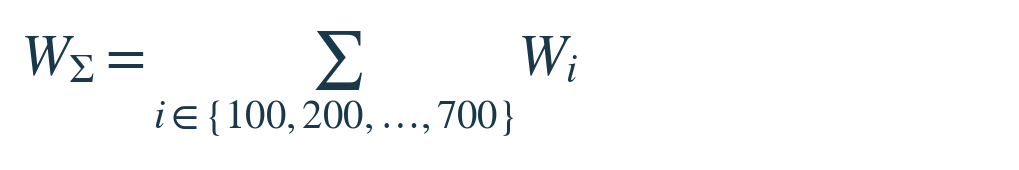
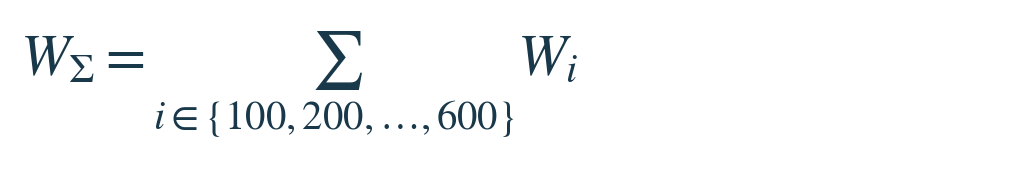
Exclude SWBS700 estimation and train lightship total net of actual SWBS700

Changed region(s): [[0.1521, 0.5882, 0.5172, 0.7647], [0.213, 0.5882, 0.3651, 0.6471], [0.4868, 0.6765, 0.5172, 0.7059]]

diff --git a/ship_type_year/model.py b/ship_type_year/model.py
@@ -5,15 +5,19 @@ import numpy as np
 import pandas as pd
 
 BASE = ['함분류', '취역연도', '길이', '폭', '깊이', '소요마력', '소요전력', '순항속력']
-WEIGHTS = [f'SWBS{i}' for i in range(100, 800, 100)]
-HEADERS = dict(zip(BASE + WEIGHTS + ['총중량'], ['함종', '취역연도(year)', '길이(m)', '폭(m)', '깊이(m)', '소요마력(hp)', '소요전력(kW)', '순항속력(kn)'] + [f'{c}(tonne)' for c in WEIGHTS] + ['총중량(tonne)']))
+WEIGHTS = [f'SWBS{i}' for i in range(100, 700, 100)]
+INPUT_WEIGHTS = WEIGHTS + ['SWBS700']
+TOTAL_TARGET = '경하중량_700제외'
+TOTAL_MODEL = '경하중량_700제외_독립회귀'
+TOTAL_SUM_COLUMN = '총중량_SWBS100_600합계_700제외_tonne'
+HEADERS = dict(zip(BASE + INPUT_WEIGHTS + ['총중량'], ['함종', '취역연도(year)', '길이(m)', '폭(m)', '깊이(m)', '소요마력(hp)', '소요전력(kW)', '순항속력(kn)'] + [f'{c}(tonne)' for c in WEIGHTS] + ['총중량(tonne)']))
 HEADERS['순번'] = '순번'
 HEADERS['함유형'] = '함유형'
-INPUT_COLUMNS = ['순번', '함분류', '함유형'] + BASE[1:] + WEIGHTS + ['총중량']
+INPUT_COLUMNS = ['순번', '함분류', '함유형'] + BASE[1:] + INPUT_WEIGHTS + ['총중량']
 # The supplied equations determine these terms; cruising speed is deliberately unused.
 TERMS = {100: ['LBD'], 200: ['P'], 300: ['PE', 'L'],
-         400: [], 500: ['LBD', 'PE'], 600: ['LB'], 700: []}
-YEAR_TARGETS = {'SWBS200','SWBS300','SWBS400','SWBS500','SWBS700','총중량'}
+         400: [], 500: ['LBD', 'PE'], 600: ['LB']}
+YEAR_TARGETS = {'SWBS200','SWBS300','SWBS400','SWBS500',TOTAL_TARGET}
 ALIASES = {'총 중량': '총중량', '충중량': '총중량', '취취역연도': '취역연도',
            '함정분류': '함분류', '함종': '함분류', '함정번호': '순번', '번호': '순번'}
 
@@ -36,7 +40,8 @@ def normalize_types(df):
     return out
 
 def validate_model_types(bundle):
-    if bundle.get('mode')!='ship_type_year':raise ValueError('함종별 연도 보정 전용 모델을 사용하세요. 원본 실적함으로 다시 학습하세요.')
+    if bundle.get('mode')!='ship_type_year_exclude_700':raise ValueError('함종별 연도 보정 전용 모델을 사용하세요. 원본 실적함으로 다시 학습하세요.')
+    if 'SWBS700' in bundle['models']:raise ValueError('700계열 포함 이전 모델은 사용할 수 없습니다. 다시 학습하세요.')
     for model in bundle['models'].values():
         if any(c not in SHIP_TYPES for c in model['classes']):
             raise ValueError('이전 모델의 함종 체계가 다릅니다. 새 프로그램에서 원본 엑셀로 다시 학습하세요.')
@@ -49,7 +54,7 @@ def read_excel(path, training=True):
         raise ValueError('중복된 열 이름이 있습니다.')
     serial_auto = '순번' not in df
     if serial_auto: df.insert(0, '순번', [str(i+1) for i in range(len(df))])
-    required = ['순번'] + BASE + (WEIGHTS + ['총중량'] if training else [])
+    required = ['순번'] + BASE + (INPUT_WEIGHTS + ['총중량'] if training else [])
     if '함유형' in df: required.append('함유형')
     missing = [c for c in required if c not in df]
     if missing:
@@ -88,11 +93,17 @@ def read_excel(path, training=True):
             if c == '취역연도':
                 bounds = (values < 1800) | (values > 2200) | (values % 1 != 0)
                 detail = ': 1800~2200의 정수 필요'
+            elif c == 'SWBS700':
+                bounds = values < 0
+                detail = ': 0 이상인 실적 중량 필요(공제용)'
             else:
                 bounds = values <= 0
                 detail = ': 0보다 큰 값 필요'
             for idx in df.index[~blank & ~invalid & bounds]: reasons[idx].append(HEADERS[c] + detail)
             df[c] = values
+    if training:
+        net = df['총중량'] - df['SWBS700']
+        for idx in df.index[np.isfinite(net) & (net<=0)]:reasons[idx].append('총중량−SWBS700은 0보다 커야 합니다.')
     excluded = [{'순번': str(df.at[idx, '순번']), '엑셀 행': int(idx) + 2,
                  '함종': '' if pd.isna(df.at[idx, '함분류']) else str(df.at[idx, '함분류']),
                  '제외 사유': '; '.join(items)} for idx, items in reasons.items() if items]
@@ -171,21 +182,25 @@ def predict_one(df, model):
 
 def train(df):
     df = normalize_types(df)
+    if '총중량' in df:
+        if 'SWBS700' not in df:raise ValueError('총 경하중량에서 공제할 실적 SWBS700 중량이 필요합니다.')
+        df[TOTAL_TARGET] = df['총중량'] - df['SWBS700']
+        if (df['SWBS700']<0).any() or (df[TOTAL_TARGET]<=0).any():raise ValueError('SWBS700은 0 이상이고, 총중량−SWBS700은 양수여야 합니다.')
     models = {f'SWBS{i}': fit_one(df, f'SWBS{i}', terms) for i, terms in TERMS.items()}
     excluded = df.attrs.get('excluded_rows', [])
     warnings = ([f'입력 {df.attrs.get("input_count", len(df))}척 중 빈 값 또는 오류가 있는 {len(excluded)}척 제외, {len(df)}척 학습. 제외 행: ' + ', '.join(str(r['엑셀 행']) for r in excluded)] if excluded else [])
     if df.attrs.get('serial_auto'):
         warnings.append('순번 없는 이전 양식: 원본 데이터 순서에 따라 1부터 식별번호를 자동 부여했습니다.')
     if '총중량' in df:
-        gap = np.abs(df['총중량'] - df[WEIGHTS].sum(axis=1)) / df['총중량']
+        gap = np.abs(df[TOTAL_TARGET] - df[WEIGHTS].sum(axis=1)) / df[TOTAL_TARGET]
         if (gap > .01).any():
-            warnings.append(f'입력 총중량과 SWBS 합계가 1% 이상 다른 자료 {(gap > .01).sum()}척. 총중량 정의를 확인하세요.')
+            warnings.append(f'입력 총중량−SWBS700과 SWBS100~600 합계가 1% 이상 다른 자료 {(gap > .01).sum()}척. 총중량 정의를 확인하세요.')
         # Independent baseline, explicitly distinct from the seven supplied formulas.
         try:
-            models['총중량_독립회귀'] = fit_one(df, '총중량', ['LBD', 'P'])
+            models[TOTAL_MODEL] = fit_one(df, TOTAL_TARGET, ['LBD', 'P'])
         except ValueError as e:
             warnings.append('선택 총중량 독립회귀 미실행: ' + str(e))
-    return {'version': 3, 'mode':'ship_type_year', 'models': models, 'warnings': warnings, 'excluded_rows': excluded}
+    return {'version': 3, 'mode':'ship_type_year_exclude_700', 'models': models, 'warnings': warnings, 'excluded_rows': excluded}
 
 def predict(df, bundle):
     validate_model_types(bundle)
@@ -193,7 +208,7 @@ def predict(df, bundle):
     out = df.copy()
     for name, model in bundle['models'].items():
         out[name + '_예측_tonne'] = predict_one(df, model)
-    out['총중량_SWBS합계_tonne'] = sum(out[c + '_예측_tonne'] for c in WEIGHTS)
+    out[TOTAL_SUM_COLUMN] = sum(out[c + '_예측_tonne'] for c in WEIGHTS)
     warnings = []
     model = bundle['models']['SWBS100']
     for _, row in df.iterrows():
@@ -201,6 +216,8 @@ def predict(df, bundle):
                    if c != '순항속력' and not lo <= row[c] <= hi]
         warnings.append('학습범위 밖: ' + ', '.join(outside) if outside else '')
     out['주의'] = warnings
+    out['중량 범위'] = 'SWBS700 제외 중량'
+    if '총중량' in df and 'SWBS700' in df:out['실적_경하중량_700제외_tonne']=df['총중량']-df['SWBS700']
     return out
 
 def coefficients(bundle):
@@ -228,7 +245,7 @@ def export(path, df, bundle):
         if audit: pd.DataFrame(audit).drop_duplicates().to_excel(writer, sheet_name='제외 행', index=False)
         metrics = [{k: m[k] for k in ['target','n','parameters','rmse_tonne','mape_percent','r2','condition_number']} for m in bundle['models'].values()]
         pd.DataFrame(metrics).to_excel(writer, sheet_name='학습적합도', index=False)
-        pd.DataFrame({'주의': bundle['warnings'] + ['적합도는 학습자료 기준이며 외부 검증 성능이 아닙니다.', '총중량_SWBS합계는 100~700 합계입니다. 독립회귀 총중량과 구분하세요.', '순항속력은 입력에 보존하지만 제공된 식에 없어 회귀에 사용하지 않습니다.']}).to_excel(writer, sheet_name='안내', index=False)
+        pd.DataFrame({'주의': bundle['warnings'] + ['적합도는 학습자료 기준이며 외부 검증 성능이 아닙니다.', '모든 예측 중량은 SWBS700 제외입니다. 합계는 100~600만 합산하며 직접 회귀는 실적 총 경하중량−실적 SWBS700으로 학습합니다.', '순항속력은 입력에 보존하지만 제공된 식에 없어 회귀에 사용하지 않습니다.']}).to_excel(writer, sheet_name='안내', index=False)
 
 def template(path):
     with pd.ExcelWriter(path, engine='openpyxl') as writer:
@@ -248,7 +265,7 @@ def template(path):
     ws.auto_filter.ref = ws.dimensions
     units = ['식별번호', '함종', '함유형', 'year', 'm', 'm', 'm', 'hp', 'kW', 'kn'] + ['tonne'] * 8
     for cell, unit in zip(ws[1], units):
-        cell.comment = Comment('단위: ' + unit + (' / 경하중량' if cell.value == HEADERS['총중량'] else ''), 'Naval Ship Design')
+        cell.comment = Comment('단위: ' + unit + (' / SWBS700 포함 원래 경하중량. 프로그램이 SWBS700을 한 번 공제합니다.' if cell.value == HEADERS['총중량'] else ' / 공제용 실적 중량(0 허용). 예측하지 않습니다.' if cell.value==HEADERS['SWBS700'] else ''), 'Naval Ship Design')
     validation = DataValidation(type='list', formula1='"' + ','.join(SHIP_TYPES + ['초계함','초계정']) + '"')
     validation.errorTitle = '함종 확인'; validation.error = '목록에서 함종을 선택하세요.'
     validation.showErrorMessage = True; ws.add_data_validation(validation); validation.add('B2:B10000')
@@ -258,11 +275,11 @@ def template(path):
                  '첫 번째 시트의 순번에 함정 고유 번호를 입력하세요. 중복·빈 번호는 제외됩니다. 001처럼 앞의 0을 유지할 수 있습니다.',
                  '함유형은 별도 기록 항목이며 회귀계수에는 사용하지 않습니다. 입력한 경우 빈 값·?가 있는 행은 제외합니다.',
                  '기존 자료와 추가 자료를 합친 전체 파일을 업로드하면 계수를 다시 추정합니다.',
-                 'SWBS100~700: 각 계열 총중량(tonne), 총중량: 실제 경하중량(tonne).',
+                 'SWBS100~600은 추정용 실적 중량, SWBS700은 공제용 실적 중량(0 허용), 총중량은 SWBS700 포함 원래 경하중량입니다.',
                  '빈 값, ?, 수치 오류, 0·음수, 잘못된 함종·연도가 있는 함정 행은 모든 회귀분석에서 제외합니다. 총중량도 필수입니다.',
                  '길이/폭/깊이 m, 소요마력 hp, 소요전력 kW, 순항속력 kn.',
                  '속력은 기록용이며 현재 회귀식에는 사용하지 않습니다.',
-                 '0 또는 결측 SWBS 중량은 학습할 수 없습니다.',
+                 'SWBS100~600은 양수, SWBS700은 0 이상이어야 합니다. 총중량−SWBS700을 별도 경하중량 모형에 학습합니다. 이미 700을 뺀 값을 총중량에 넣지 마세요.',
                  '초계함·초계정은 호위함과 통합 학습합니다.',
                  '신규 함정은 GUI의 설계 제원 입력란에서 직접 입력하세요.']:
         guide.append([text])
@@ -313,7 +330,7 @@ def save_model_excel(path, bundle):
                               'R2, RMSE and diagnostics describe the original training fit; editing coefficients does not recompute them.',
                               '기준 함종은 유효 학습 척수가 가장 많은 함종입니다. 동률이면 구축함·호위함·고속함·상륙함·기뢰전함·지원함 순입니다.',
                               '회귀계수 보기 시트는 열람용입니다. 모델을 변경하려면 재학습 후 저장을 권장합니다.'] + bundle.get('warnings', [])}).to_excel(writer, sheet_name='Notes', index=False)
-        pd.DataFrame([{'Format': 'NSWE Ship Type Year Model', 'Version': 1}]).to_excel(writer, sheet_name='Format', index=False)
+        pd.DataFrame([{'Format': 'NSWE Ship Type Year Excl700 Model', 'Version': 1}]).to_excel(writer, sheet_name='Format', index=False)
     from openpyxl import load_workbook
     from openpyxl.styles import Font, PatternFill
     wb = load_workbook(path)
@@ -330,7 +347,7 @@ def load_model_excel(path):
     try:
         with pd.ExcelFile(path, engine='openpyxl') as book:
             meta = pd.read_excel(book, sheet_name='Format')
-            if len(meta)!=1 or meta.iloc[0]['Format']!='NSWE Ship Type Year Model' or meta.iloc[0]['Version']!=1:
+            if len(meta)!=1 or meta.iloc[0]['Format']!='NSWE Ship Type Year Excl700 Model' or meta.iloc[0]['Version']!=1:
                 raise ValueError('지원하지 않는 모델 형식입니다.')
             params = pd.read_excel(book, sheet_name='Model Parameters')
             types = pd.read_excel(book, sheet_name='Ship Types')
@@ -341,7 +358,7 @@ def load_model_excel(path):
             if '함유형' in diagnostics: diagnostics['함유형'] = diagnostics['함유형'].fillna('')
             excluded = pd.read_excel(book, sheet_name='Excluded Rows', dtype={'순번':str}).fillna('').to_dict('records')
             notes = pd.read_excel(book, sheet_name='Notes')['Note'].dropna().astype(str).tolist()[6:]
-        expected = set(WEIGHTS + ['총중량_독립회귀'])
+        expected = set(WEIGHTS + [TOTAL_MODEL])
         if params.empty or params['Target'].duplicated().any() or not set(WEIGHTS)<=set(params['Target']) or not set(params['Target'])<=expected:
             raise ValueError('계열별 모델 목록이 잘못되었습니다.')
         def finite(value, name, positive=False):
@@ -378,7 +395,7 @@ def load_model_excel(path):
                 bounds[r['Variable']]=[lo,hi]
             if set(bounds)!=set(BASE[1:]):raise ValueError('학습 범위가 누락되었습니다.')
             counts={r['ShipType']: integer(r['Count'],'Count') for _,r in group.iterrows() if pd.notna(r['Count'])}
-            models[name]={'target': '총중량' if name=='총중량_독립회귀' else name,
+            models[name]={'target': TOTAL_TARGET if name==TOTAL_MODEL else name,
                           'terms':terms, 'classes':classes, 'coef':coef, 'smearing':finite(row['C'],'C',True),
                           'mean_years':mean_years,'gamma':gamma,'year_by_type':year_by_type, 'ranges':bounds,
                           'n':integer(row['N'],'N'), 'parameters':integer(row['Parameters'],'Parameters'),
@@ -387,7 +404,7 @@ def load_model_excel(path):
                           'condition_number':finite(row['ConditionNumber'],'ConditionNumber',True),
                           'class_counts':counts,
                           'diagnostics':diagnostics[diagnostics['Target']==name].drop(columns='Target').to_dict('records')}
-        bundle={'version':3,'mode':'ship_type_year','models':models,'warnings':notes,'excluded_rows':excluded}
+        bundle={'version':3,'mode':'ship_type_year_exclude_700','models':models,'warnings':notes,'excluded_rows':excluded}
         validate_model_types(bundle)
         return bundle
     except (KeyError, TypeError, IndexError) as e:

diff --git a/ship_type_year/app.py b/ship_type_year/app.py
@@ -6,14 +6,14 @@ from tkinter import filedialog, messagebox, ttk
 import pandas as pd
 from equation_guide import GUIDE_ROWS, TABLE_EXPLANATION
 from model import (BASE, SHIP_TYPES, read_excel, train, predict, export, template,
-                   coefficients, validate_model_types, normalize_types, save_model_excel, load_model_excel, SHIP_ALIASES, diagnostic_rows, diagnostic_metrics)
+                   coefficients, validate_model_types, normalize_types, save_model_excel, load_model_excel, SHIP_ALIASES, TOTAL_MODEL, TOTAL_SUM_COLUMN, diagnostic_rows, diagnostic_metrics)
 
 TITLE = 'Naval Ship Weight Estimator - Ship Type Year'
 NAVY, INK, TEAL, GOLD = '#102638', '#19384a', '#087f87', '#c69c55'
 BG, WHITE, MUTED = '#edf2f5', '#ffffff', '#607887'
 EN, KO = 'Times New Roman', '맑은 고딕'
 SERIES = ['Hull Structure', 'Propulsion', 'Electrical', 'Command & Surveillance',
-          'Auxiliary Systems', 'Outfit & Furnishings', 'Armament']
+          'Auxiliary Systems', 'Outfit & Furnishings']
 
 class App:
     def __init__(self, root):
@@ -105,7 +105,7 @@ class App:
     def design_panel(self):
         panel = tk.Frame(self.design_tab, bg=WHITE, padx=20, pady=15); panel.pack(fill='both', expand=True)
         self.label(panel, 'Weight Estimation', 21, bold=True, english=True).pack(anchor='w')
-        self.label(panel, '함종·길이·폭·깊이·소요마력·소요전력으로 SWBS100~700 및 경하중량을 추정합니다.', 10, MUTED).pack(anchor='w', pady=(3,12))
+        self.label(panel, '함종·길이·폭·깊이·소요마력·소요전력으로 SWBS100~600 및 700계열 제외 경하중량을 추정합니다.', 10, MUTED).pack(anchor='w', pady=(3,12))
         form = tk.Frame(panel, bg=WHITE); form.pack(fill='x')
         self.inputs = {}
         fields = [('함분류','Ship Type / 함종'), ('길이','Length L / 길이 (m)'),
@@ -128,7 +128,7 @@ class App:
         tk.Label(row,textvariable=self.estimation_assumption,font=(KO,9),fg=MUTED,bg=WHITE,wraplength=600,justify='left').pack(side='left',padx=14)
         cards=tk.Frame(panel,bg=WHITE); cards.pack(fill='x',pady=12)
         self.sum_value=tk.StringVar(value='—'); self.total_value=tk.StringVar(value='—')
-        for title,var,color in [('SWBS100–700 Sum / 계열별 합산 중량',self.sum_value,TEAL),('Lightship Regression / 전체 경하중량 직접 추정',self.total_value,INK)]:
+        for title,var,color in [('SWBS100–600 합계 / 700계열 제외',self.sum_value,TEAL),('경하중량 직접 회귀 / 700계열 제외',self.total_value,INK)]:
             card=tk.Frame(cards,bg='#edf4f6',highlightbackground='#d3e1e7',highlightthickness=1,padx=14,pady=10); card.pack(side='left',fill='both',expand=True,padx=(0,10))
             self.label(card,title,11,color,'#edf4f6',True,True).pack(anchor='w')
             tk.Label(card,textvariable=var,font=(EN,25,'bold'),fg=color,bg='#edf4f6').pack(anchor='w')
@@ -338,11 +338,11 @@ class App:
 
     def draw_chart(self):
         c=self.chart; c.delete('all'); width=max(c.winfo_width(),240)
-        c.create_text(12,16,anchor='w',text='SWBS WEIGHT DISTRIBUTION',font=(EN,11,'bold'),fill=INK)
+        c.create_text(12,16,anchor='w',text='SWBS100–600 / EXCLUDING 700',font=(EN,11,'bold'),fill=INK)
         weights=getattr(self,'last_weights',None)
         if weights is None:
             c.create_text(width/2,100,text='Awaiting design estimate',font=(EN,13,'italic'),fill=MUTED); return
-        mx=max(weights) or 1; step=max(23,min(33,(c.winfo_height()-35)/7))
+        mx=max(weights) or 1; step=max(23,min(33,(c.winfo_height()-35)/6))
         for i,w in enumerate(weights):
             y=38+i*step
             c.create_text(12,y+7,anchor='w',text=str((i+1)*100),font=(EN,10),fill=INK)
@@ -413,7 +413,7 @@ class App:
                    'R²·RMSE·MAPE 및 그래프는 학습자료 기준이며 독립 검증 성능이 아닙니다.',
                    '엑셀 모델에는 전체 정밀도의 계수·학습 범위·진단 결과가 저장됩니다.']+self.bundle.get('warnings',[])))
     def save(self):
-        self.require();p=self.choose(True,initialfile='Ship Type Year Model.xlsx')
+        self.require();p=self.choose(True,initialfile='Ship Type Year Excluding 700 Model.xlsx')
         if p:save_model_excel(p,self.bundle);self.status.set('MODEL SAVED  |  '+p)
     def load(self):
         p=self.choose()
@@ -452,14 +452,14 @@ class App:
         self.require();data=self.design_data();result=predict(data,self.bundle)
         self.data=data;self.render_result(result.iloc[0]);self.status.set('ESTIMATION COMPLETE  |  Export Results to Excel로 저장하세요.')
     def render_result(self,row):
-        self.sum_value.set(f"{row['총중량_SWBS합계_tonne']:,.2f} tonne")
-        key='총중량_독립회귀_예측_tonne'
+        self.sum_value.set(f"{row[TOTAL_SUM_COLUMN]:,.2f} tonne")
+        key=TOTAL_MODEL+'_예측_tonne'
         self.total_value.set(f"{row[key]:,.2f} tonne" if key in row else 'Not trained / 미학습')
-        self.last_weights=[float(row[f'SWBS{i}_예측_tonne']) for i in range(100,800,100)]
+        self.last_weights=[float(row[f'SWBS{i}_예측_tonne']) for i in range(100,700,100)]
         self.result_tree.delete(*self.result_tree.get_children())
         for i,(name,w) in enumerate(zip(SERIES,self.last_weights)):self.result_tree.insert('','end',values=(str((i+1)*100),name,f'{w:,.2f}'))
-        note=f"함종: {row['함분류']} / 취역 예상연도: {row['취역연도']:.2f} ({row.get('연도 적용','입력연도')})  |  "+(row['주의'] or '학습자료의 입력 범위 내')
-        if key not in row:note+='  |  실제 총중량을 포함한 실적함 자료를 학습하면 직접 회귀를 사용할 수 있습니다.'
+        note=f"함종: {row['함분류']} / 700계열 제외 / 취역 예상연도: {row['취역연도']:.2f} ({row.get('연도 적용','입력연도')})  |  "+(row['주의'] or '학습자료의 입력 범위 내')
+        if key not in row:note+='  |  원래 경하중량과 공제용 실적 SWBS700을 포함한 자료를 학습하면 직접 회귀를 사용할 수 있습니다.'
         self.prediction_note.set(note);self.draw_chart()
     def report(self):
         self.require()

diff --git a/ship_type_year/equation_guide.py b/ship_type_year/equation_guide.py
@@ -14,12 +14,10 @@ GUIDE_ROWS = [
      'L·B·D: 길이·폭·깊이(m), PE: 소요전력(kW)\nα: 규모(LBD)의 회귀지수\nβ: 전력의 회귀지수 / γt: 취역연도 영향계수\n'+COMMON),
     ('swbs600', 'SWBS600 / 의장계통', r'W_{600}=K(LB)^{\alpha}D_t C',
      'L·B: 길이·폭(m)\nα: 면적 지표(LB)의 회귀지수\n'+COMMON+'\n이 식에는 취역연도 항이 없습니다.'),
-    ('swbs700', 'SWBS700 / 무장계통', r'W_{700}=KD_t '+YEAR+r' C',
-     '함종과 취역연도의 영향을 반영하는 모형\nγt: 취역연도 영향계수\n'+COMMON),
-    ('total_sum', 'Total / 계열별 합산 중량', r'W_{\Sigma}=\sum_{i\in\{100,200,\ldots,700\}} W_i',
-     'SWBS100~700의 예측 중량을 모두 합산합니다.\n합계 자체에 별도의 K·Dt·C를 곱하지 않습니다.\n각 계열 식에서 보정된 중량을 더합니다.\nSWBS 합계와 경하중량의 포함 범위를 확인하세요.'),
-    ('total_direct', 'Lightship / 전체 경하중량 직접 회귀', r'W_{\mathrm{total}}=K(LBD)^{\alpha}P^{\beta}D_t '+YEAR+r' C',
-     '실제 경하중량을 학습한 별도의 회귀모형\nα: 규모(LBD)의 회귀지수\nβ: 소요마력(hp)의 회귀지수\nγt: 취역연도 영향계수\n'+COMMON+'\n계열별 합산 중량과 일치하도록 강제하지 않습니다.'),
+    ('total_sum', 'Total / SWBS100~600 합계 · 700계열 제외', r'W_{\Sigma}=\sum_{i\in\{100,200,\ldots,600\}} W_i',
+     'SWBS100~600의 예측 중량을 모두 합산합니다.\n합계 자체에 별도의 K·Dt·C를 곱하지 않습니다.\n각 계열 식에서 보정된 중량을 더합니다.\n700계열은 예측하지 않으며 합계에도 포함하지 않습니다.'),
+    ('total_direct', 'Lightship / 700계열 제외 경하중량 직접 회귀', r'W_{\mathrm{total}\,-\,700}=K(LBD)^{\alpha}P^{\beta}D_t '+YEAR+r' C',
+     '실적 경하중량−실적 SWBS700을 학습한 모형\nα: 규모(LBD)의 회귀지수\nβ: 소요마력(hp)의 회귀지수\nγt: 취역연도 영향계수\n'+COMMON+'\n계열별 합산 중량과 일치하도록 강제하지 않습니다.'),
     ('year_factor', 'Year Adjustment / 연도 보정', r'F(Y)=\exp\!\left[\gamma_t\frac{Y-\bar{Y}_t}{10}\right]',
      'Y: 취역연도 또는 신규 함정의 취역 예상연도\nȲt: 해당 함종의 학습 평균 취역연도\nγt: 10년당 연도 효과(exp(γt)배)\n취역 예상연도를 생략하면 선택 함종의 학습 평균연도를 적용합니다.\nSWBS100·600에는 연도 보정이 없습니다.'),
     ('smearing', 'Bias Correction / 역변환 편향 보정', r'C=\frac{1}{n}\sum_{j=1}^{n}\exp(e_j)',
@@ -27,6 +25,7 @@ GUIDE_ROWS = [
 ]
 
 TABLE_EXPLANATION = [
+    ('700계열 제외 중량', '700계열은 추정하지 않습니다. 계열 합계는 100~600만 합산하며 경하중량 직접 회귀는 원래 실적 총 경하중량에서 실적 SWBS700을 뺀 값을 학습합니다. 입력 총중량에는 이미 700을 뺀 값을 넣지 마세요. SWBS700 입력은 공제용이며 0을 허용합니다.'),
     ('함종별 연도 보정', '각 계열 및 총 경하중량 모형에서 함종별 γt를 서로 독립적으로 추정합니다. 기준연도도 유효 학습자료의 해당 함종 평균입니다. 각 함종에 서로 다른 취역연도가 2개 이상 있어야 하며, 전체 자료가 계수 수보다 많고 설계행렬이 full rank여야 합니다. 자료가 부족하면 임의의 공통 연도 효과로 대체하지 않고 학습 오류를 안내합니다.'),
     ('Dt 비교 조건', 'Dt는 각 함종을 자신의 평균 취역연도에 놓았을 때의 상대 수준입니다. 같은 달력 연도에서 함종을 비교하려면 Dt뿐 아니라 각 함종의 연도 보정값 F_t(Y)도 함께 곱해 비교해야 합니다.'),
     ('계수 표 읽는 방법', '같은 계열에서는 K·α·β·C가 공통이고 Dt·γt·함종평균연도가 함종마다 다릅니다. 따라서 공통 계수는 여러 행에 반복됩니다. K와 회귀지수 및 C는 계열·총중량 모형마다 서로 다를 수 있습니다.'),

diff --git a/ship_type_year/tests/test_model.py b/ship_type_year/tests/test_model.py
@@ -3,7 +3,7 @@ import unittest
 from pathlib import Path
 import numpy as np
 import pandas as pd
-from model import TERMS, YEAR_TARGETS, WEIGHTS, design, train, predict, read_excel, save_model_excel, load_model_excel, coefficients
+from model import TERMS, YEAR_TARGETS, WEIGHTS, design, train, predict, read_excel, save_model_excel, load_model_excel, coefficients, TOTAL_MODEL, TOTAL_TARGET, TOTAL_SUM_COLUMN
 
 def fleet():
     rng=np.random.default_rng(67);n=100
@@ -18,7 +18,8 @@ def fleet():
         coef=[1.2]+[.6]*len(terms)+[.3]+([.12,-.2] if flag else [])
         df[f'SWBS{i}']=np.exp(x@np.array(coef))
     x=design(df,['LBD','P'],['구축함','호위함'],means,True)
-    df['총중량']=np.exp(x@np.array([1.4,.7,.1,.3,.08,-.11]))
+    df['SWBS700']=np.linspace(100,500,n)
+    df['총중량']=np.exp(x@np.array([1.4,.7,.1,.3,.08,-.11]))+df['SWBS700']
     return df
 
 class ModelTests(unittest.TestCase):
@@ -26,14 +27,14 @@ class ModelTests(unittest.TestCase):
         df=fleet();b=train(df)
         for name,m in b['models'].items():
             if m['year_by_type']:
-                expected=[.08,-.11] if name=='총중량_독립회귀' else [.12,-.2]
+                expected=[.08,-.11] if name==TOTAL_MODEL else [.12,-.2]
                 np.testing.assert_allclose(list(m['gamma'].values()),expected,atol=1e-10)
             self.assertEqual(m['mean_years'],df.groupby('함분류')['취역연도'].mean().to_dict())
             self.assertNotIn('mean_year',m)
         out=predict(df,b)
         for c in WEIGHTS:np.testing.assert_allclose(out[c+'_예측_tonne'],df[c],rtol=1e-9)
-        np.testing.assert_allclose(out['총중량_독립회귀_예측_tonne'],df['총중량'],rtol=1e-9)
-        np.testing.assert_allclose(out['총중량_SWBS합계_tonne'],out[[c+'_예측_tonne' for c in WEIGHTS]].sum(axis=1))
+        np.testing.assert_allclose(out[TOTAL_MODEL+'_예측_tonne'],df['총중량']-df['SWBS700'],rtol=1e-9)
+        np.testing.assert_allclose(out[TOTAL_SUM_COLUMN],out[[c+'_예측_tonne' for c in WEIGHTS]].sum(axis=1))
     def test_class_specific_ten_year_change_and_centering(self):
         df=fleet();b=train(df)
         for cls in ['구축함','호위함']:
@@ -48,6 +49,24 @@ class ModelTests(unittest.TestCase):
         for row in diagnostics:
             cls=row['함종'];m=b['models']['SWBS200']
             self.assertAlmostEqual(row['연도보정값'],np.exp(m['gamma'][cls]*(row['취역연도']-m['mean_years'][cls])/10))
+    def test_700_not_fitted_and_total_subtracted_exactly_once(self):
+        df=fleet();bundle=train(df);out=predict(df,bundle)
+        self.assertNotIn('SWBS700',bundle['models'])
+        self.assertNotIn('SWBS700_예측_tonne',out)
+        self.assertEqual(len(bundle['models']),7)
+        actual=np.array([r['실제중량'] for r in bundle['models'][TOTAL_MODEL]['diagnostics']])
+        np.testing.assert_allclose(actual,df['총중량']-df['SWBS700'])
+        changed=df.copy();changed['SWBS700']+=200;changed['총중량']+=200
+        # Net-weight targets are unchanged when full weight and actual 700 rise equally.
+        revised=train(changed)
+        np.testing.assert_allclose(bundle['models'][TOTAL_MODEL]['coef'],revised['models'][TOTAL_MODEL]['coef'],rtol=1e-10)
+        self.assertTrue(out['중량 범위'].eq('SWBS700 제외 중량').all())
+    def test_zero_700_and_nonpositive_net_input(self):
+        with tempfile.TemporaryDirectory() as tmp:
+            p=Path(tmp)/'zero.xlsx';df=fleet();df.loc[0,'SWBS700']=0;df.loc[1,'SWBS700']=df.loc[1,'총중량']
+            df.to_excel(p,index=False);valid=read_excel(p)
+            self.assertIn(0,valid.index);self.assertNotIn(1,valid.index)
+            self.assertEqual(valid.attrs['excluded_rows'][0]['엑셀 행'],3)
     def test_missing_year_variation_is_explicit(self):
         df=fleet();df.loc[df['함분류']=='호위함','취역연도']=2000
         with self.assertRaisesRegex(ValueError,'호위함'):train(df)

diff --git a/ship_type_year/tests/test_ui.py b/ship_type_year/tests/test_ui.py
@@ -26,9 +26,12 @@ class UITests(unittest.TestCase):
                 self.assertEqual(app.data.iloc[0]['취역연도'],app.bundle['models']['SWBS100']['mean_years']['호위함'])
                 self.assertIn('호위함',app.estimation_assumption.get())
                 self.assertIn('tonne',app.sum_value.get());self.assertIn('tonne',app.total_value.get())
-                self.assertEqual(len(app.result_tree.get_children()),7)
+                self.assertEqual(len(app.result_tree.get_children()),6)
                 app.inputs['취역연도'].set('2030');app.estimate();root.update()
                 self.assertIn('2030',app.prediction_note.get())
+                self.assertIn('700계열 제외',app.prediction_note.get())
+                self.assertNotIn('SWBS700',app.bundle['models'])
+                self.assertEqual(len(app.metric_tree.get_children()),7)
                 p=Path(tmp)/'result.xlsx'
                 with patch.object(app,'choose',return_value=str(p)),patch('app.messagebox.showinfo'):app.report()
                 self.assertTrue(p.exists())

diff --git a/ship_type_year/README.md b/ship_type_year/README.md
@@ -23,3 +23,9 @@ Dt는 각 함종의 자체 평균연도에서의 상대 수준입니다. 같은 
 ## 개발
 
 이 폴더에서 requirements.txt를 설치하고 `python -m unittest discover -s tests -v`를 실행합니다. Windows 빌드: `python -m PyInstaller --onefile --windowed --name SWBS_Regression --add-data "assets;assets" app.py`. 수식 이미지는 assets/equations에 포함되어 있습니다.
+
+## 700계열 제외 버전
+
+700계열 회귀모형·예측·그래프·계수·진단은 생성하지 않습니다. 계열 합계는 SWBS100~600만 합산합니다. 경하중량 직접 회귀의 학습 목표는 **입력 총 경하중량−입력 실적 SWBS700**이며 한 번만 공제합니다. 추정 결과는 두 방식 모두 700계열 제외 중량으로 표시합니다.
+
+입력 양식의 SWBS700은 공제용 실제 중량으로 유지하며 0을 허용합니다. 총중량에는 SWBS700 포함 원래 경하중량을 입력하세요. 이미 공제한 중량을 넣으면 이중 공제가 되므로 사용하지 마세요. 총중량−SWBS700이 0 이하인 행은 제외합니다. 기존 700 포함 모델과 혼용하지 않도록 모델 형식을 변경했습니다. 전체 실적함 엑셀로 다시 학습하세요.
